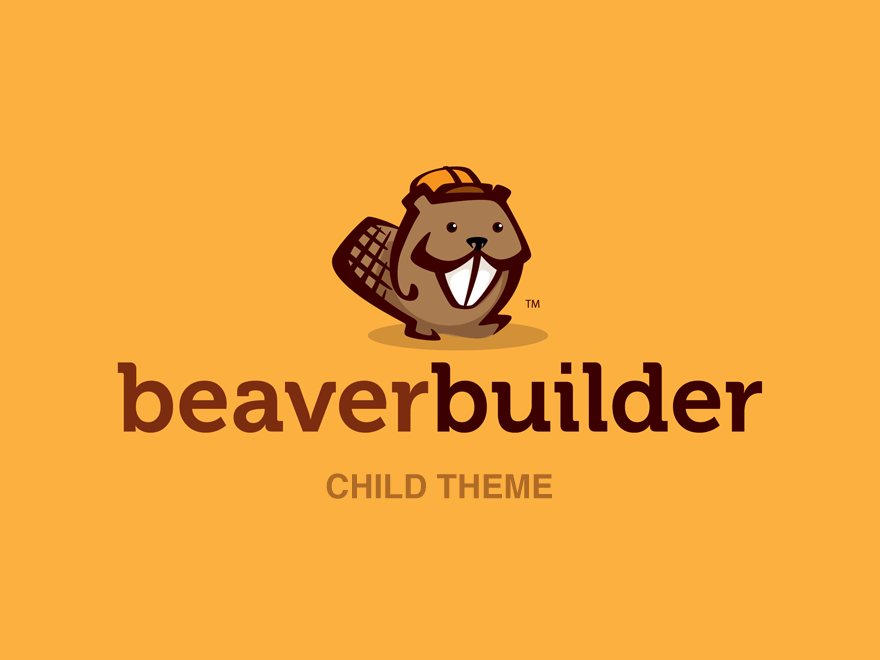
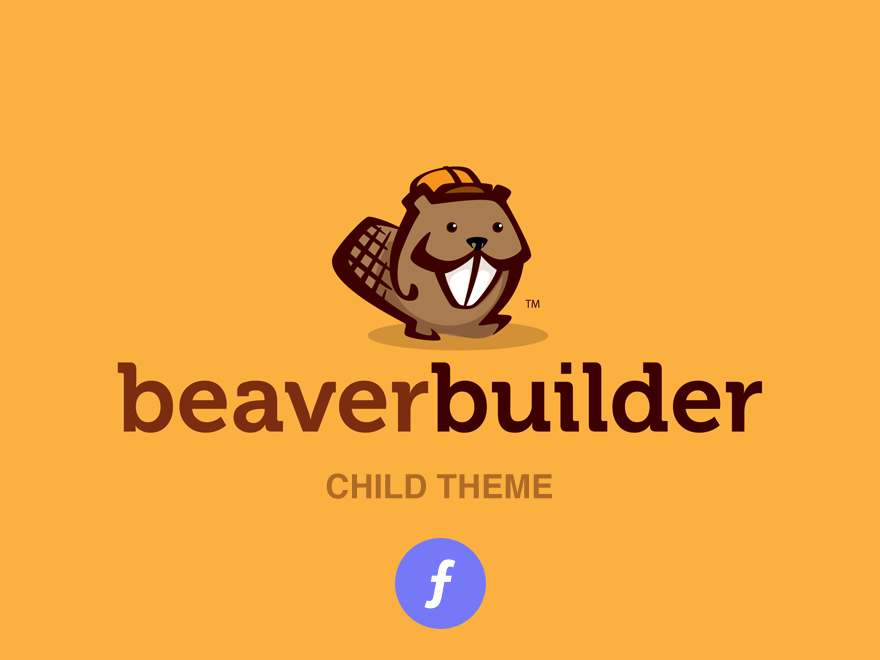
added screenshot and custom css

Changed region(s): [[0.4295, 0.8182, 0.5523, 0.9697]]

diff --git a/style.css b/style.css
@@ -9,3 +9,115 @@ template: bb-theme
 */
 
 /* Add your custom styles here... */ 
+
+@import url("https://use.typekit.net/jmb2btw.css");
+
+body, p, h1, h2, h3, h4, h5, ul, li {
+  font-family: -apple-system, BlinkMacSystemFont, "Segoe UI", "Roboto", "Oxygen", "Ubuntu", "Cantarell", "Fira Sans", "Droid Sans", "Helvetica Neue", sans-serif;
+	font-weight:400;
+}
+
+
+#menu-homepage-menu a {
+  font-family: "lft-etica", -apple-system, BlinkMacSystemFont, "Segoe UI", "Roboto", "Oxygen", "Ubuntu", "Cantarell", "Fira Sans", "Droid Sans", "Helvetica Neue", sans-serif;
+	font-weight: 600;
+}
+
+h1 {
+	  font-family: -apple-system, BlinkMacSystemFont, "Segoe UI", "Roboto", "Oxygen", "Ubuntu", "Cantarell", "Fira Sans", "Droid Sans", "Helvetica Neue", sans-serif;
+	font-weight: 300 !important;
+	line-height: 1.2;
+}
+
+h2 {
+	font-weight: 300 !important;
+	font-size: 35px;
+	
+}
+
+.fl-accordion-item {
+  border: none !important;
+	border-radius: .55rem;
+box-shadow:
+  0 0 6px 0 rgba(0,0,0,0.20);
+}
+
+.rounded {
+		border-radius: .55rem !important;
+}
+
+.shadow {
+	box-shadow:
+  0 0 10px 0 rgba(0,0,0,0.20);
+}
+
+a.button, #simpay-231-payment-button, .simpay-payment-btn {
+	display: block;
+	margin: 1em auto;
+	width: 100%;
+	font-size: 21px;
+	line-height: 1.65;
+	border-radius:5px;
+	background-color:#7679f7;
+	border: 1px solid #7679f7;
+	font-weight: 600;
+	color: #FFF;
+	padding: .5em;
+}
+
+ol li {
+	margin:1em 0;
+}
+
+blockquote {
+	border-left: 3px solid #a4bcda;
+	padding: .25em 1em;
+	color: #374250;
+}
+
+blockquote strong {
+	display: block;
+	margin: .25em 0 0;
+	color: #515d6c;
+	font-family: "lft-etica", -apple-system, BlinkMacSystemFont, "Segoe UI", "Roboto", "Oxygen", "Ubuntu", "Cantarell", "Fira Sans", "Droid Sans", "Helvetica Neue", sans-serif;
+	font-weight: 600;
+}
+
+blockquote .testimonial-amount {
+	background-color: #eee;
+	display: inline-block;
+	padding: .125em .5em;
+	margin: 0 .35em;
+	border-radius: 5px;
+	color: #515d6c;
+	font-size: 80%;
+	vertical-align: 3px;
+}
+
+a.fl-button, a.button, #simpay-231-payment-button, .simpay-payment-btn {
+	box-shadow: 0 3px 0 #6262FF;
+}
+
+a.fl-button span, a.button, #simpay-231-payment-button, .simpay-payment-btn  {
+	font-weight: 600;
+	font-family: "lft-etica", -apple-system, BlinkMacSystemFont, "Segoe UI", "Roboto", "Oxygen", "Ubuntu", "Cantarell", "Fira Sans", "Droid Sans", "Helvetica Neue", sans-serif;
+}
+
+h3 {
+	font-family: "lft-etica", -apple-system, BlinkMacSystemFont, "Segoe UI", "Roboto", "Oxygen", "Ubuntu", "Cantarell", "Fira Sans", "Droid Sans", "Helvetica Neue", sans-serif;
+	font-weight: 600;
+	font-size: 21px;
+}
+
+ul li {
+	margin: 0 0 .5em;
+}
+
+.fl-form-success-message {
+	color: #fff;
+	
+}
+
+a.no-underline:hover {
+	text-decoration: none;
+}
